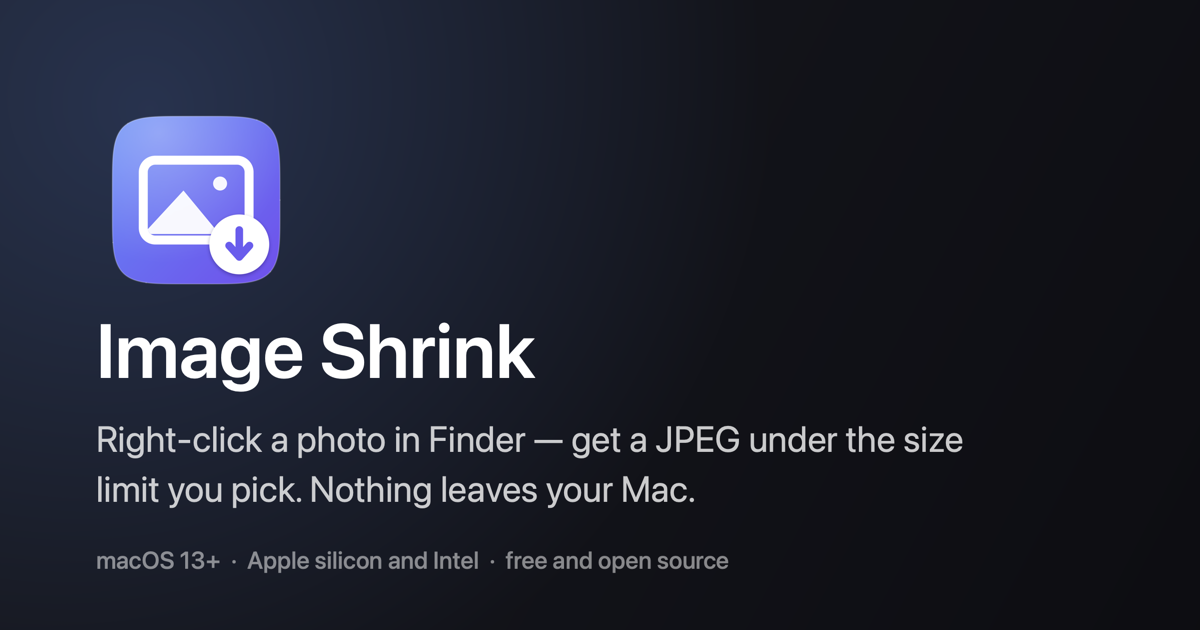
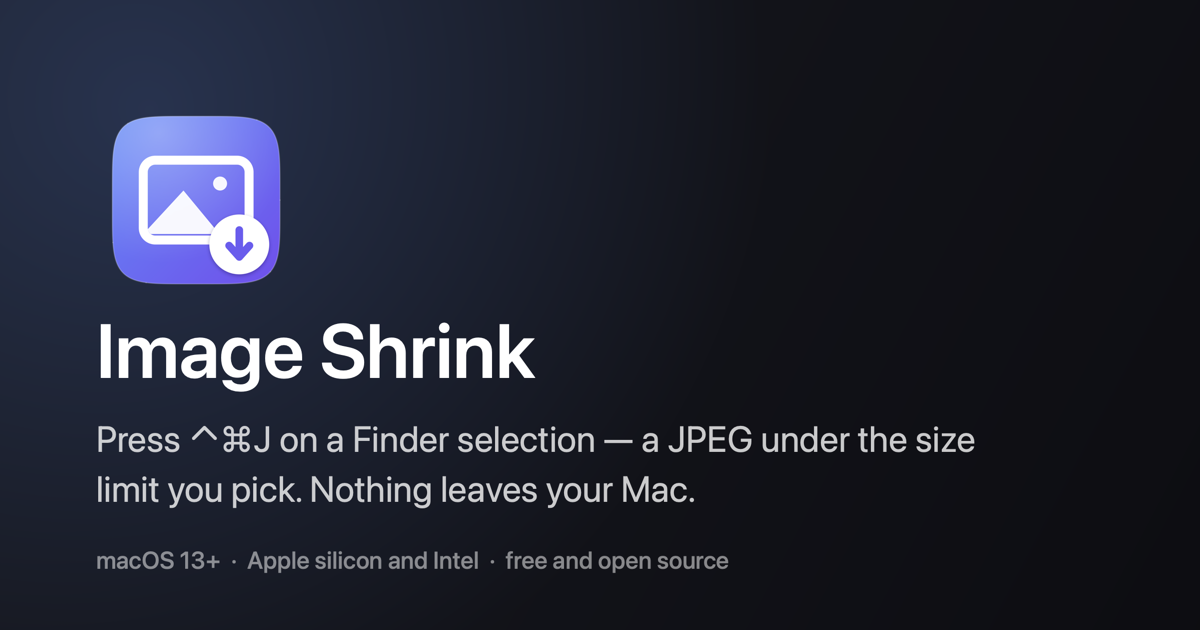
docs: the hot key goes first, everywhere
It is the thing no web converter can offer: files converted where they sit, with no
window and nothing to open. The site hero, the steps, the feature order, the README
lead, the social card and the page metadata now say that before they say right-click,
and the FAQ explains that the combination is yours to record.

Changed region(s): [[0.0925, 0.6635, 0.8325, 0.7238]]

diff --git a/site/index.html b/site/index.html
@@ -3,8 +3,8 @@
 <head>
 <meta charset="utf-8">
 <meta name="viewport" content="width=device-width, initial-scale=1">
-<title>Image Shrink — a JPEG under your size limit, from Finder</title>
-<meta name="description" content="Right-click a photo in Finder on your Mac and get a JPEG under the size limit you pick — 500 KB, 1 MB, 2 MB or your own. HEIC, PNG, JPEG, TIFF and raw. Free, open source, and nothing leaves your Mac.">
+<title>Image Shrink — a hot key away from a JPEG under your size limit</title>
+<meta name="description" content="Press a hot key, or right-click in Finder, and get a JPEG under the size limit you pick — 500 KB, 1 MB, 2 MB or your own. HEIC, PNG, JPEG, TIFF and raw, converted on your Mac. Free, open source, nothing uploaded.">
 <link rel="canonical" href="https://mshykov.github.io/image-shrink/">
 
 <link rel="icon" type="image/svg+xml" href="favicon.svg">
@@ -15,8 +15,8 @@
 <link rel="manifest" href="manifest.json">
 
 <meta property="og:type" content="website">
-<meta property="og:title" content="Image Shrink — a JPEG under your size limit, from Finder">
-<meta property="og:description" content="Right-click a photo in Finder, pick a limit, get a JPEG that fits. Nothing leaves your Mac.">
+<meta property="og:title" content="Image Shrink — a hot key away from a JPEG under your size limit">
+<meta property="og:description" content="Press ⌃⌘J on a Finder selection, or right-click and pick a limit. Nothing leaves your Mac.">
 <meta property="og:url" content="https://mshykov.github.io/image-shrink/">
 <meta property="og:image" content="https://mshykov.github.io/image-shrink/og.png">
 <meta name="twitter:card" content="summary_large_image">
@@ -29,7 +29,7 @@
   "applicationCategory": "MultimediaApplication",
   "operatingSystem": "macOS 13 or newer",
   "offers": { "@type": "Offer", "price": "0", "priceCurrency": "USD" },
-  "description": "Converts HEIC, PNG, JPEG and other images to a JPEG under a size limit you pick, from Finder's right-click menu."
+  "description": "Converts HEIC, PNG, JPEG and other images to a JPEG under a size limit you pick — from a keyboard shortcut on a Finder selection, or from Finder's right-click menu."
 }
 </script>
 
@@ -102,6 +102,11 @@ code.brew {
   font-family: ui-monospace, SFMono-Regular, Menlo, monospace;
 }
 .requirements { color: var(--faint); font-size: 14px; margin-top: 16px; }
+kbd {
+  font: inherit; font-weight: 600; background: var(--panel); border: 1px solid var(--line);
+  border-bottom-width: 2px; border-radius: 6px; padding: 1px 7px; white-space: nowrap;
+}
+.step span.keys { width: auto; padding: 0 8px; font-size: 13px; letter-spacing: 0.02em; }
 
 section { padding: 44px 0; }
 h2 { font-size: 24px; letter-spacing: -0.01em; margin: 0 0 20px; }
@@ -152,8 +157,10 @@ footer a { color: var(--dim); }
   <div class="wrap hero">
     <h1>Your photo is 8&nbsp;MB. The upload takes 2.</h1>
     <p class="lead">
-      Right-click any image in Finder, pick a size limit, and get a JPEG that fits — named for the
-      size it actually came out at. HEIC, PNG, JPEG, TIFF, WebP and camera raw all go in.
+      Select photos in Finder and press <kbd>⌃⌘J</kbd> — they are converted where they sit, with no
+      window and no waiting. Or right-click and pick the limit yourself. HEIC, PNG, JPEG, TIFF,
+      WebP and camera raw all go in; a JPEG under your limit comes out, named for the size it
+      actually reached.
     </p>
     <div class="actions">
       <a class="button" href="https://github.com/mshykov/image-shrink/releases/latest">Download for macOS</a>
@@ -164,12 +171,18 @@ footer a { color: var(--dim); }
 
   <div class="wrap">
     <section>
-      <h2>Three steps, no window if you don't want one</h2>
+      <h2>The fast way, and the careful way</h2>
       <div class="steps">
+        <div class="step">
+          <span class="keys">⌃⌘J</span>
+          <h3>The hot key</h3>
+          <p>Select images in Finder, press it, done — your last settings, no window, no app to
+          open. Record any combination you like inside the app.</p>
+        </div>
         <div class="step">
           <span>1</span>
           <h3>Right-click in Finder</h3>
-          <p>Select any number of images, then Quick Actions → Convert to JPEG.</p>
+          <p>Or take the slow road: Quick Actions → Convert to JPEG.</p>
         </div>
         <div class="step">
           <span>2</span>
@@ -198,12 +211,13 @@ footer a { color: var(--dim); }
       <h2>What it does that a web converter cannot</h2>
       <div class="features">
         <div>
-          <h3>Never bigger than the original</h3>
-          <p>A 1.2 MB HEIC does not come out as a 2 MB JPEG just because the limit allows it.</p>
+          <h3>A hot key, not a workflow</h3>
+          <p>Select files anywhere in Finder, press your combination, and they are converted in
+          place with your last settings. Nothing opens, nothing to click.</p>
         </div>
         <div>
-          <h3>A shortcut with no window</h3>
-          <p>Select files, press the key you chose, and they are converted with your last settings. No app to open.</p>
+          <h3>Never bigger than the original</h3>
+          <p>A 1.2 MB HEIC does not come out as a 2 MB JPEG just because the limit allows it.</p>
         </div>
         <div>
           <h3>Presets in the same menu</h3>
@@ -237,6 +251,12 @@ footer a { color: var(--dim); }
 
     <section>
       <h2>Questions</h2>
+      <details>
+        <summary>Can I change the hot key?</summary>
+        <p>Yes — click the keys in the window's banner, or Settings → Finder shortcut, and press
+        the combination you want. ⌃⌘J is only the default. It works on a Finder selection without
+        opening anything.</p>
+      </details>
       <details>
         <summary>Does it touch my originals?</summary>
         <p>No. The converted copy is written next to the original, and the original is left alone

diff --git a/tools/make-og-image.swift b/tools/make-og-image.swift
@@ -40,7 +40,7 @@ func write(_ text: String, x: CGFloat, y: CGFloat, size fontSize: CGFloat,
 }
 
 write("Image Shrink", x: 96, y: 236, size: 76, weight: .semibold, alpha: 1)
-write("Right-click a photo in Finder — get a JPEG under the size", x: 96, y: 170,
+write("Press \u{2303}\u{2318}J on a Finder selection — a JPEG under the size", x: 96, y: 170,
       size: 36, weight: .regular, alpha: 0.78)
 write("limit you pick. Nothing leaves your Mac.", x: 96, y: 120, size: 36, weight: .regular, alpha: 0.78)
 write("macOS 13+  ·  Apple silicon and Intel  ·  free and open source", x: 96, y: 56,

diff --git a/README.md b/README.md
@@ -4,7 +4,7 @@
 
 # Image Shrink
 
-**Right-click a photo in Finder and get a JPEG under the size limit you pick.**
+**Press ⌃⌘J on a Finder selection — or right-click — and get a JPEG under the size limit you pick.**
 
 [![Download](https://img.shields.io/github/v/release/mshykov/image-shrink?display_name=tag&label=download&color=0a6fe8&style=flat-square)](https://github.com/mshykov/image-shrink/releases/latest)
 [![Downloads](https://img.shields.io/github/downloads/mshykov/image-shrink/total?label=downloads&color=8a8a8e&style=flat-square)](https://github.com/mshykov/image-shrink/releases)
@@ -21,13 +21,18 @@
 
 </div>
 
-Your phone shoots 8 MB photos; the form you are uploading to takes 2. Image Shrink converts
-HEIC, JPEG, PNG and anything else macOS can read (TIFF, GIF, WebP, camera raw) to JPEG **under a
-size limit you pick at conversion time** — and never hands you a file bigger than the one you
-gave it.
+Your phone shoots 8 MB photos; the form you are uploading to takes 2.
 
-Right-click images in Finder → **Quick Actions → Convert to JPEG** → set the limit → convert.
-Or press ⌃⌘J and skip the window entirely.
+**The fast way:** select images anywhere in Finder and press the hot key — ⌃⌘J by default, any
+combination you record in the app. They are converted where they sit, with your last settings,
+without a window opening. That is the whole interaction.
+
+**The careful way:** right-click → **Quick Actions → Convert to JPEG** → pick the limit and see
+what every file will weigh before anything is written.
+
+Either way it converts HEIC, JPEG, PNG and anything else macOS can read (TIFF, GIF, WebP, camera
+raw) to a JPEG **under a size limit you pick at conversion time** — and never hands you a file
+bigger than the one you gave it.
 
 ## Install
 
